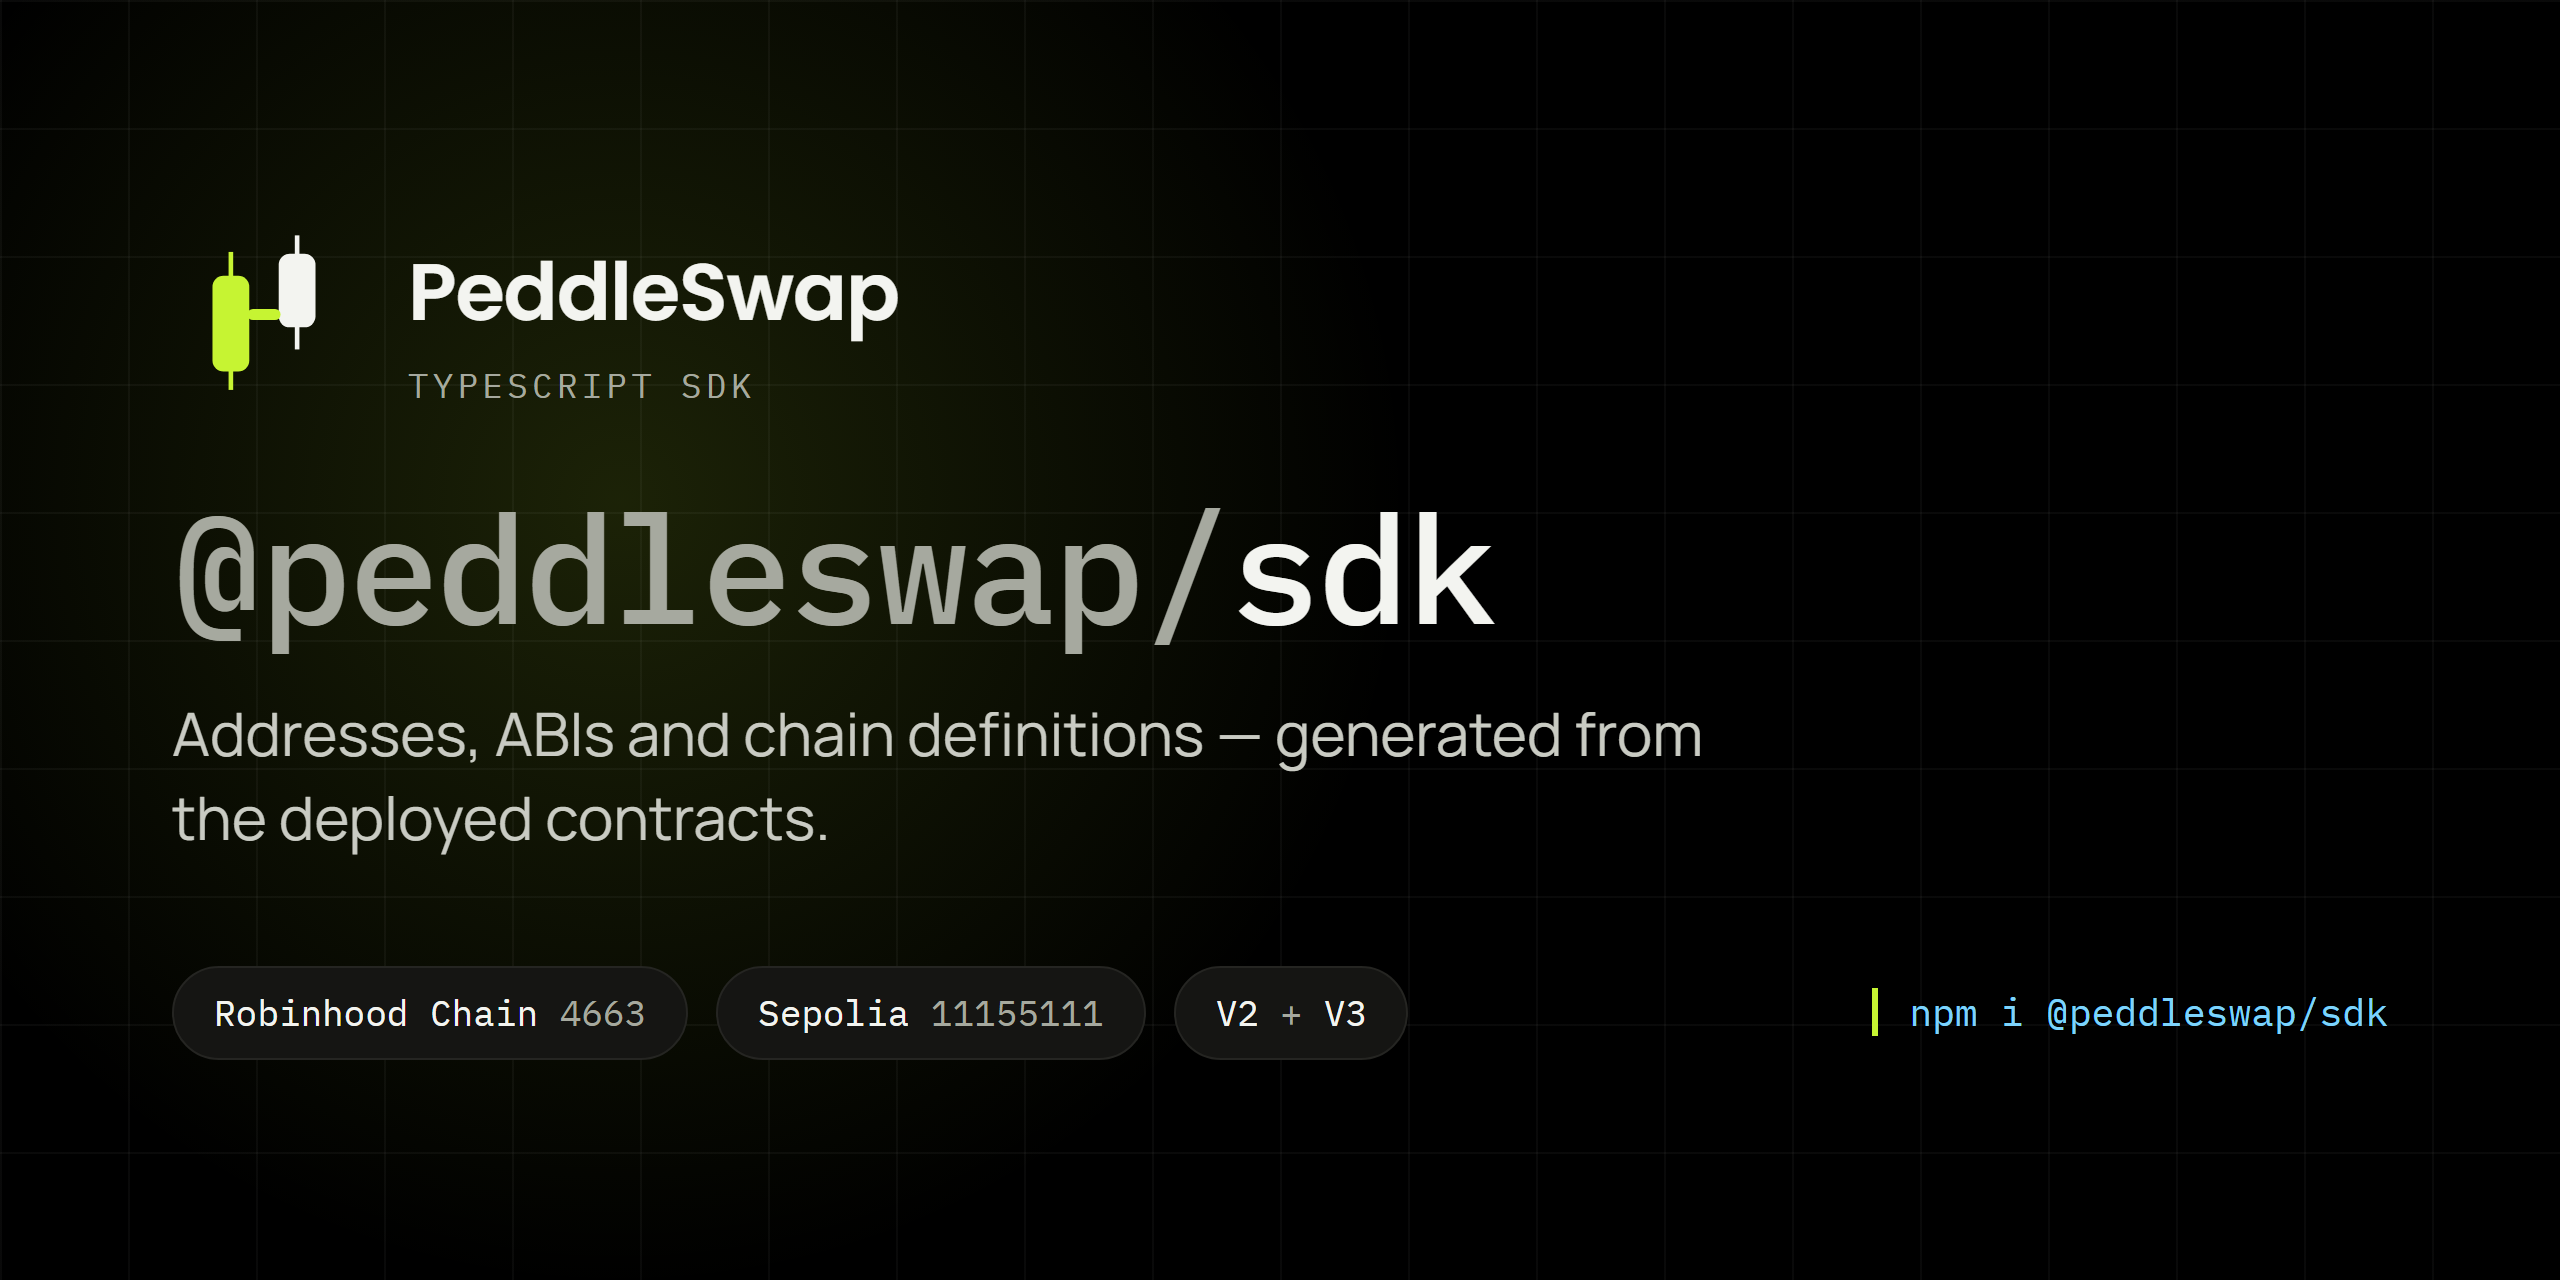
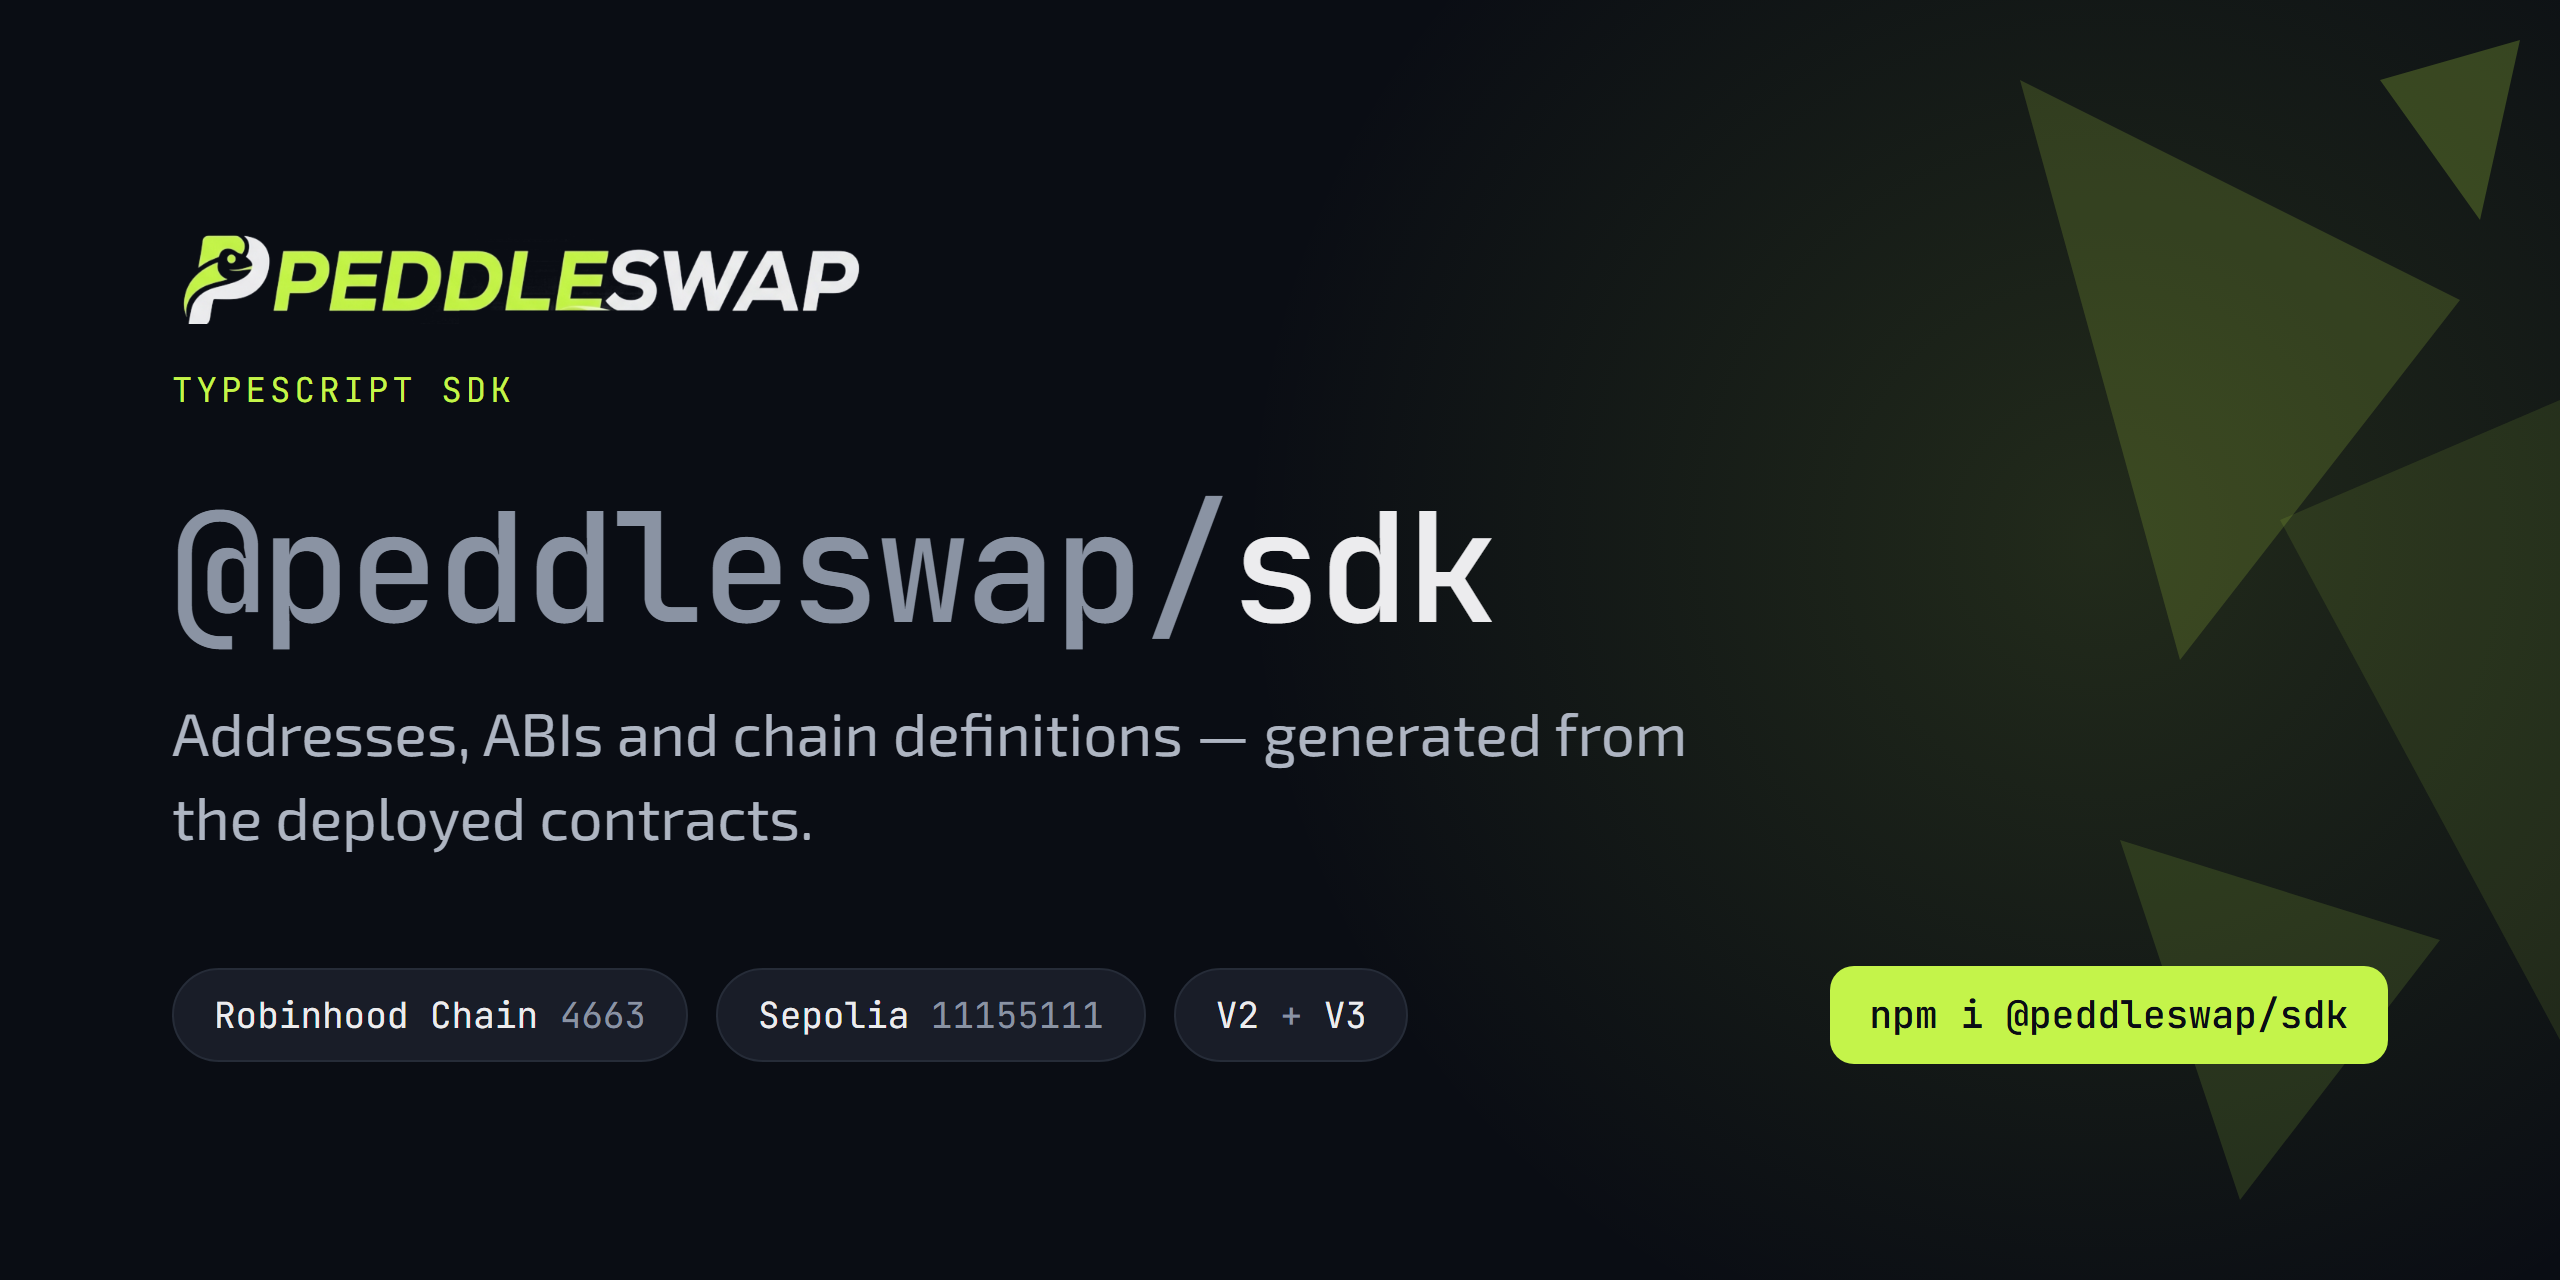
New brand across the app: Peddle the chameleon, Night and Lime, Exo 2
The brand kit replaces the two-candle mark everywhere: the P-mark and PEDDLESWAP
wordmark in the top bar, footer and title bar; favicons, PWA icons, splash screens,
install screenshots and the share card; the SDK social card.

- Tokens: Night #0A0D14 ground, Lime #C4F44A, Exo 2 and JetBrains Mono, the kit's
  radii and type scale, no drop shadows. Light theme uses a deepened Lime Ink.
- Home: Peddle in the hero, animated (float, crystal glow, jet flames, drifting
  shards, pointer parallax), static under reduced motion. The headline says
  "Swap. Earn. Lock." while launches are still coming soon.
- DEX, admin and docs: buttons, pills, swap card, progress bars and cards to the
  kit's specs (shared classes in app/brand-ui.css).
- /brand: the brand kit page with logo, icon, mascot, badge and social downloads,
  public with the gate on; token list served with open CORS.

diff --git a/assets/og.html b/assets/og.html
@@ -8,10 +8,11 @@
                       packages/sdk/assets/og.png 1280 640 2
 
   Kept as HTML on purpose. A card is a thing that gets edited -- a new chain, a renamed
-  package -- and a committed PNG with no source is a thing nobody can edit. The palette
-  and the mark geometry below are transcribed from the product rather than approximated:
-  colours are the --dark-* tokens in web/src/app/globals.css, and the mark is the exact
-  viewBox from components/brand.tsx.
+  package -- and a committed PNG with no source is a thing nobody can edit. Colours are
+  the brand kit's tokens (web/src/app/globals.css, --dark-*), type is the kit's pair (Exo 2
+  and JetBrains Mono), and assets/wordmark.png is the kit wordmark
+  (web/public/brand/kit/logos/peddleswap-wordmark-2x.png), copied beside this file so the
+  card still renders in the standalone SDK repo.
 
   Sized 1280x640, which is GitHub's recommended social preview. Rendered at 2x so it stays
   crisp when a platform shows it large, and downscales cleanly when one shows it small.
@@ -23,19 +24,18 @@
 <link rel="preconnect" href="https://fonts.googleapis.com" />
 <link rel="preconnect" href="https://fonts.gstatic.com" crossorigin />
 <link
-  href="https://fonts.googleapis.com/css2?family=Poppins:wght@600;700&family=Manrope:wght@400;500;600&family=IBM+Plex+Mono:wght@400;500&display=swap"
+  href="https://fonts.googleapis.com/css2?family=Exo+2:ital,wght@0,400;0,600;0,700;1,800;1,900&family=JetBrains+Mono:wght@400;500&display=swap"
   rel="stylesheet"
 />
 <style>
   :root {
-    --bg: #000000;
-    --pane: #0b0b0a;
-    --surface2: #151513;
-    --text: #f3f4f0;
-    --accent: #c6f432;
-    --blue: #7dd3fc;
-    --rule: #252522;
-    --muted: #a6a99f;
+    --night: #0a0d14;
+    --graphite: #191d28;
+    --slate: #262c38;
+    --steel: #8a93a3;
+    --mist: #aeb5c2;
+    --chrome: #ececee;
+    --lime: #c4f44a;
   }
 
   * { margin: 0; padding: 0; box-sizing: border-box; }
@@ -43,34 +43,24 @@
   html, body { width: 1280px; height: 640px; }
 
   body {
-    background: var(--bg);
-    color: var(--text);
-    font-family: "Manrope", system-ui, sans-serif;
+    background: var(--night);
+    color: var(--chrome);
+    font-family: "Exo 2", system-ui, sans-serif;
     position: relative;
     overflow: hidden;
   }
 
-  /* A single wash behind the mark, so the card has depth without a gradient across the
-     whole field -- full-bleed gradients are the thing that makes a card look generated. */
+  /* One lime wash and the kit's faceted shards on the right, so the card has depth
+     without a gradient across the whole field. */
   .glow {
     position: absolute;
-    left: -140px;
-    top: -200px;
-    width: 900px;
-    height: 900px;
-    background: radial-gradient(circle, rgba(198, 244, 50, 0.14) 0%, rgba(198, 244, 50, 0) 62%);
+    right: -260px;
+    top: -220px;
+    width: 980px;
+    height: 980px;
+    background: radial-gradient(circle, rgba(196, 244, 74, 0.13) 0%, rgba(196, 244, 74, 0) 62%);
   }
-
-  /* The candle grid, at 4% -- it reads as texture, not decoration, and ties the card to
-     the product's own chart surfaces. */
-  .grid {
-    position: absolute;
-    inset: 0;
-    background-image:
-      linear-gradient(to right, rgba(243, 244, 240, 0.04) 1px, transparent 1px),
-      linear-gradient(to bottom, rgba(243, 244, 240, 0.04) 1px, transparent 1px);
-    background-size: 64px 64px;
-  }
+  .shards { position: absolute; right: 0; top: 0; width: 520px; height: 640px; }
 
   .frame {
     position: relative;
@@ -78,102 +68,76 @@
     padding: 68px 86px 64px;
     display: flex;
     flex-direction: column;
-    /* center, not space-between. The content is ~470px tall in a 640px card, and
-       space-between spent the whole remainder in one gap in the middle. Centering
-       distributes it as margin, which is what the card actually wanted. */
     justify-content: center;
     gap: 54px;
   }
 
-  .top { display: flex; align-items: center; gap: 26px; }
-
-  .mark { width: 92px; height: 92px; flex: none; }
-
-  .wordmark {
-    font-family: "Poppins", system-ui, sans-serif;
-    font-weight: 600;
-    font-size: 40px;
-    letter-spacing: -0.015em;
-  }
+  .wordmark { height: 50px; display: block; }
 
   .eyebrow {
-    font-family: "IBM Plex Mono", ui-monospace, monospace;
+    font-family: "JetBrains Mono", ui-monospace, monospace;
     font-size: 17px;
-    letter-spacing: 0.13em;
+    letter-spacing: 0.12em;
     text-transform: uppercase;
-    color: var(--muted);
-    margin-top: 6px;
+    color: var(--lime);
+    margin-top: 22px;
   }
 
   h1 {
-    font-family: "IBM Plex Mono", ui-monospace, monospace;
+    font-family: "JetBrains Mono", ui-monospace, monospace;
     font-weight: 500;
     font-size: 76px;
     letter-spacing: -0.02em;
     line-height: 1;
   }
-  h1 .scope { color: var(--muted); }
+  h1 .scope { color: var(--steel); }
 
   .lede {
     font-size: 30px;
     line-height: 1.38;
-    color: #c9cbc3;
-    /* 44ch lands this on two lines. At 30ch it broke three ways and left "contracts."
-       alone on the last one -- a widow is conspicuous at this type size. */
+    color: var(--mist);
+    /* 44ch lands this on two lines; narrower leaves "contracts." alone on a third. */
     max-width: 44ch;
     margin-top: 24px;
   }
 
-  .facts {
-    display: flex;
-    gap: 14px;
-    align-items: center;
-  }
+  .facts { display: flex; gap: 14px; align-items: center; }
 
   .chip {
-    font-family: "IBM Plex Mono", ui-monospace, monospace;
+    font-family: "JetBrains Mono", ui-monospace, monospace;
     font-size: 18px;
-    color: var(--text);
-    background: var(--surface2);
-    border: 1px solid var(--rule);
+    color: var(--chrome);
+    background: var(--graphite);
+    border: 1px solid var(--slate);
     border-radius: 999px;
     padding: 11px 20px;
     white-space: nowrap;
   }
-  .chip .dim { color: var(--muted); }
+  .chip .dim { color: var(--steel); }
 
   .install {
-    font-family: "IBM Plex Mono", ui-monospace, monospace;
+    font-family: "JetBrains Mono", ui-monospace, monospace;
+    font-weight: 500;
     font-size: 19px;
-    color: var(--blue);
-    border-left: 3px solid var(--accent);
-    padding-left: 16px;
+    color: var(--night);
+    background: var(--lime);
+    border-radius: 12px;
+    padding: 12px 20px;
   }
 </style>
 
 <div class="glow"></div>
-<div class="grid"></div>
+<svg class="shards" viewBox="0 0 520 640" xmlns="http://www.w3.org/2000/svg" aria-hidden="true">
+  <polygon points="250,40 470,150 330,330" fill="#c4f44a" fill-opacity="0.16" />
+  <polygon points="380,260 520,200 520,520" fill="#c4f44a" fill-opacity="0.10" />
+  <polygon points="300,420 460,470 360,600" fill="#c4f44a" fill-opacity="0.13" />
+  <polygon points="430,40 500,20 480,110" fill="#c4f44a" fill-opacity="0.22" />
+</svg>
 
 <div class="frame">
   <div>
-    <div class="top">
-      <!-- Mark geometry from web/src/components/brand.tsx, 100x100 viewBox:
-           left candle x22 y26 w20 h52 r6 (accent), right x58 y14 w20 h40 r6 (token),
-           link x41 y44 w18 h6 r3, wicks 2.5 wide. -->
-      <svg class="mark" viewBox="0 0 100 100" xmlns="http://www.w3.org/2000/svg">
-        <rect x="30.75" y="13" width="2.5" height="15" fill="#c6f432" />
-        <rect x="30.75" y="76" width="2.5" height="12" fill="#c6f432" />
-        <rect x="66.75" y="4" width="2.5" height="12" fill="#f3f4f0" />
-        <rect x="66.75" y="52" width="2.5" height="14" fill="#f3f4f0" />
-        <rect x="22" y="26" width="20" height="52" rx="6" fill="#c6f432" />
-        <rect x="58" y="14" width="20" height="40" rx="6" fill="#f3f4f0" />
-        <rect x="41" y="44" width="18" height="6" rx="3" fill="#c6f432" />
-      </svg>
-      <div>
-        <div class="wordmark">PeddleSwap</div>
-        <div class="eyebrow">TypeScript SDK</div>
-      </div>
-    </div>
+    <img class="wordmark" src="wordmark.png" alt="PeddleSwap" />
+    <div class="eyebrow">TypeScript SDK</div>
 
     <h1 style="margin-top: 40px"><span class="scope">@peddleswap/</span>sdk</h1>
 

diff --git a/PUBLISHING.md b/PUBLISHING.md
@@ -114,10 +114,10 @@ is why the source is committed beside it:
 node scripts/chrome/shot.mjs packages/sdk/assets/og.html packages/sdk/assets/og.png 1280 640 2
 ```
 
-It renders at 2x for retina and lands around 790 KB, inside GitHub's 1 MB limit. The
-palette is the product's own `--dark-*` tokens and the mark is the exact viewBox from
-`web/src/components/brand.tsx`, so the card cannot drift from the app by being redrawn
-from memory.
+It renders at 2x for retina and lands around 710 KB, inside GitHub's 1 MB limit. The
+palette and type are the brand kit's (the app's `--dark-*` tokens, Exo 2 and JetBrains
+Mono), and `assets/wordmark.png` is the kit wordmark copied beside the card, so the card
+cannot drift from the app by being redrawn from memory.
 
 `assets/` is not in `files`, so none of this ships in the npm tarball.
 
